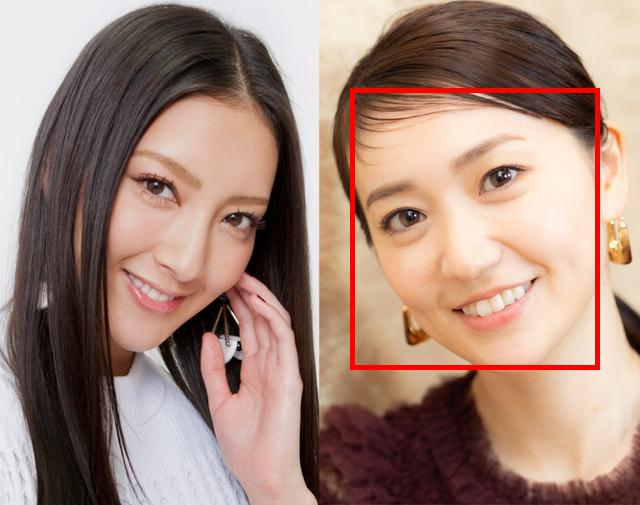
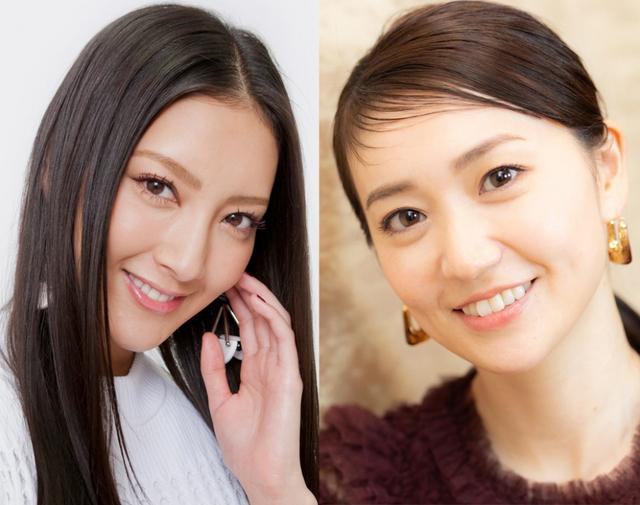
kouka2

Changed region(s): [[0.5312, 0.1485, 0.9375, 0.7426]]

diff --git a/効果測定/kouka2/templates/index.html b/効果測定/kouka2/templates/index.html
@@ -15,10 +15,16 @@
                 <div class="col">
                     <label for="formFileLg" class="form-label">認識元画像</label>
                     <input class="form-control form-control-lg" id="formFileLg" type="file" accept="image/*" name="image1" required>
+                    <div class="card mt-3" style="width: 18rem;">
+                        <img src="{{ image_url1 }}" class="card-img-top">
+                    </div>
                 </div>
                 <div class="col">
                     <label for="formFileLg" class="form-label">認識対象画像</label>
                     <input class="form-control form-control-lg" id="formFileLg" type="file" accept="image/*" name="image2" required>
+                    <div class="card mt-3" style="width: 18rem;">
+                        <img src="{{ image_url2 }}" class="card-img-top">
+                    </div>
                 </div>
             </div>
             <div class="row">
@@ -35,10 +41,10 @@
             <div class="row">
                 <div class="col"></div>
                 <div class="col">
-                    <div class="card mt-3" style="width: 18rem;">
-                        <img src="{{ image_url }}" class="card-img-top">
+                    <div class="card mt-3" style="width: 18rem;text-align: center;">
+                        <img src="{{ image_url3 }}" class="card-img-top">
                         <div class="card-body">
-                        <p class="card-text">{{ text }}</p>
+                        <p class="card-text">検出されました</p>
                         </div>
                     </div>
                 </div>

diff --git a/効果測定/kouka2/app.py b/効果測定/kouka2/app.py
@@ -24,8 +24,12 @@ def index():
         # ファイル名を取得
         filename1 = f1.filename
         filename2 = f2.filename
+        # 文字認識画像名設定(拡張子の削除)
+        filename3 = filename2.replace('.jpg', '_rekog.jpg')
         # ファイルを保存するディレクトリを指定
-        filepath = 'static/image/' + filename2
+        filepath1 = 'static/image/' + filename1 #source
+        filepath2 = 'static/image/' + filename2 #target
+        filepath3 = 'static/image/' + filename3 #rekog
         # try:
         # Rekognition サービスクライアントを作成
         rekognition = boto3.client('rekognition')
@@ -37,15 +41,13 @@ def index():
                 result = rekognition.compare_faces(
                     SourceImage={'Bytes': source.read()},
                     TargetImage={'Bytes': target.read()})
-                # 結果を整形して表示
-                print(json.dumps(result, indent=4))
 
         # 入力画像のファイルを読み込む
-        image_in = Image.open(filename2)
+        image_in3 = Image.open(filename2)
         # 座像のサイズを取得
-        w, h = image_in.size
+        w, h = image_in3.size
         # 描画用のオブジェクトを作成
-        draw = ImageDraw.Draw(image_in)
+        draw = ImageDraw.Draw(image_in3)
         # 一致した顔を順番に処理
         for face in result['FaceMatches']:
             # バウンディングボックスを取得
@@ -58,20 +60,28 @@ def index():
             # 検知した顔を赤枠で囲む draw.rectangle((座標), fill=(塗りつぶしの色：任意), outline=(赤枠の色：任意),width=(太さ：任意))
             draw.rectangle((left, top, right, bottom), outline=(255, 0, 0),width=5)
         # 出力画像をファイルに保存
-        image_in.save(filepath)
-        text = '処理が完了しました。'
+        image_in3.save(filepath3)
+        image_in1 = Image.open(filename1)
+        image_in2 = Image.open(filename2)
+        image_in1.save(filepath1)
+        image_in2.save(filepath2)
         flg = True
+        image_url1 = filepath1
+        image_url2 = filepath2
+        image_url3 = filepath3
         # except AmazonClientException:
         #     text = '顔を認識できませんでした。'
         #     filepath = ''
     # GETのとき
     else:
-        text = ''
-        filepath = ''
+        filepath1 = ''
+        filepath2 = ''
+        filepath3 = ''
         flg = False
     return render_template('index.html',
-                    text = text,
-                    image_url = filepath,
+                    image_url1 = filepath1,
+                    image_url2 = filepath2,
+                    image_url3 = filepath3,
                     flg = flg)
 # アプリケーションの起動 おまじない debug=Trueでエラーを表示してくれる
 if __name__ == '__main__':
